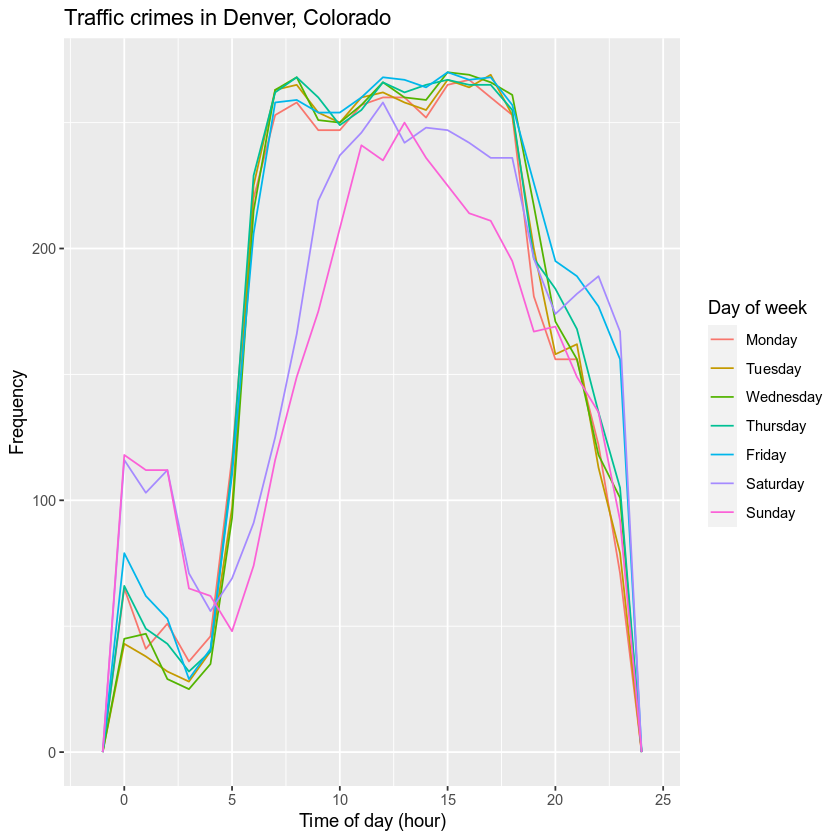
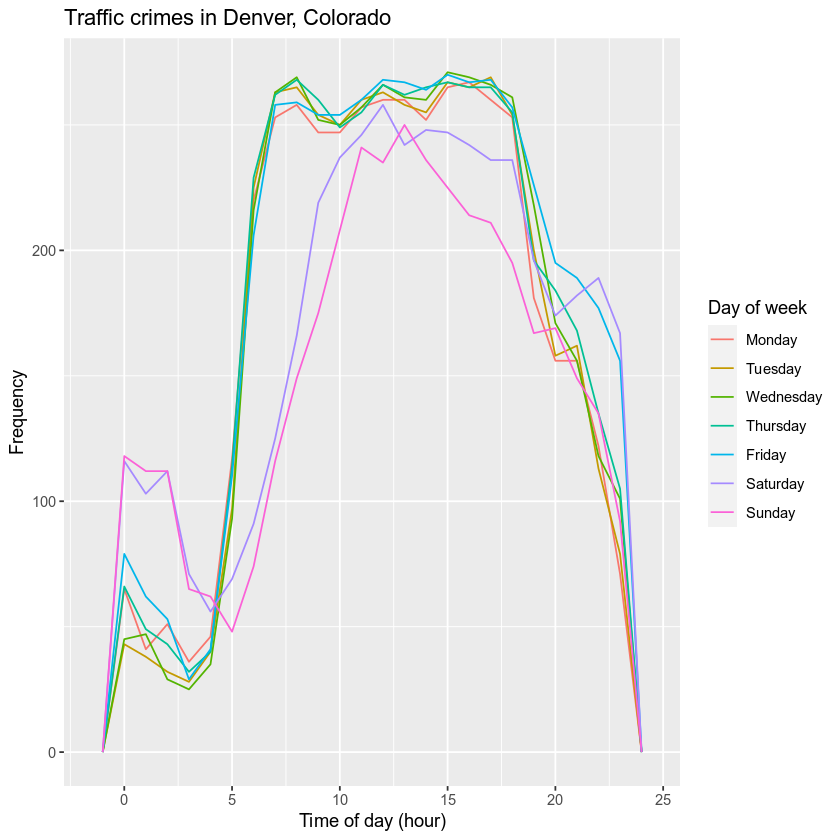
rebuild tutorials

diff --git a/_posts/tutorials/python/2016-08-01-introduction-to-leaflet-animated-maps.md b/_posts/tutorials/python/2016-08-01-introduction-to-leaflet-animated-maps.md
@@ -2,7 +2,7 @@
 layout: single
 title: 'Using Leaflet and Folium to make interactive maps in Python'
 date: 2016-08-01
-modified: 2020-04-02
+modified: 2020-04-08
 authors: [Matt Oakley]
 category: [tutorials]
 excerpt: 'This tutorial shows how to make interactive maps in Python with folium.'
@@ -58,7 +58,7 @@ my_map
 
 
 
[2 lines of base64/hex data omitted]
 
 
 
@@ -89,7 +89,7 @@ my_map
 
 
 
[2 lines of base64/hex data omitted]
 
 
 
@@ -111,7 +111,7 @@ map_with_tiles
 
 
 
[2 lines of base64/hex data omitted]
 
 
 
@@ -143,7 +143,7 @@ polygon_map
 
 
 
[2 lines of base64/hex data omitted]
 
 
 

diff --git a/_posts/tutorials/python/2016-07-15-extract-raster-around-buffered-points.md b/_posts/tutorials/python/2016-07-15-extract-raster-around-buffered-points.md
@@ -2,7 +2,7 @@
 layout: single
 title: 'Computing raster statistics around buffered spatial points Python'
 date: 2016-07-15
-modified: 2020-04-02
+modified: 2020-04-08
 authors: [Matt Oakley, Max Joseph]
 category: [tutorials]
 excerpt: 'This tutorial shows how to compute raster statistics like the mean and variance around buffered spatial points in Python.'
@@ -74,11 +74,11 @@ Our first objective is to read in the data that we want to use. We'll be working
     gdalbuildvrt -q -overwrite SRTM1.vrt cache/N41/N41W123.tif cache/N41/N41W122.tif
     make: Leaving directory '/root/.cache/elevation/SRTM1'
     make: Entering directory '/root/.cache/elevation/SRTM1'
-    cp SRTM1.vrt SRTM1.6a0602e4801d423a8a1a8e310a12dadd.vrt
+    cp SRTM1.vrt SRTM1.ce74d7f7a9fa408b84ed7f5c0e08fb71.vrt
     make: Leaving directory '/root/.cache/elevation/SRTM1'
     make: Entering directory '/root/.cache/elevation/SRTM1'
-    gdal_translate -q -co TILED=YES -co COMPRESS=DEFLATE -co ZLEVEL=9 -co PREDICTOR=2 -projwin -122.6 41.6 -121.9 41.15 SRTM1.6a0602e4801d423a8a1a8e310a12dadd.vrt /root/earth-analytics-lessons/Shasta-30m-DEM.tif
-    rm -f SRTM1.6a0602e4801d423a8a1a8e310a12dadd.vrt
+    gdal_translate -q -co TILED=YES -co COMPRESS=DEFLATE -co ZLEVEL=9 -co PREDICTOR=2 -projwin -122.6 41.6 -121.9 41.15 SRTM1.ce74d7f7a9fa408b84ed7f5c0e08fb71.vrt /root/earth-analytics-lessons/Shasta-30m-DEM.tif
+    rm -f SRTM1.ce74d7f7a9fa408b84ed7f5c0e08fb71.vrt
     make: Leaving directory '/root/.cache/elevation/SRTM1'
 
 
@@ -144,7 +144,7 @@ print(prj)
 ```
 
 {:.output}
-    
+    GEOGCS["WGS 84",DATUM["WGS_1984",SPHEROID["WGS 84",6378137,298.257223563,AUTHORITY["EPSG","7030"]],AUTHORITY["EPSG","6326"]],PRIMEM["Greenwich",0],UNIT["degree",0.0174532925199433,AUTHORITY["EPSG","9122"]],AXIS["Latitude",NORTH],AXIS["Longitude",EAST],AUTHORITY["EPSG","4326"]]
 
 
 

diff --git a/_posts/tutorials/python/2016-07-26-visualize-digital-elevation-model-contours-matplotlib.md b/_posts/tutorials/python/2016-07-26-visualize-digital-elevation-model-contours-matplotlib.md
@@ -2,7 +2,7 @@
 layout: single
 title: 'Visualizing elevation contours from raster digital elevation models in Python'
 date: 2016-07-26
-modified: 2020-04-02
+modified: 2020-04-08
 authors: [Matt Oakley, Max Joseph]
 category: [tutorials]
 excerpt: 'This tutorial shows how to compute and plot contour lines for elevation from a raster DEM (digital elevation model).'
@@ -55,11 +55,11 @@ The first objective we'll have to accomplish is acquiring and reading in our dat
     make: Nothing to be done for 'all'.
     make: Leaving directory '/root/.cache/elevation/SRTM1'
     make: Entering directory '/root/.cache/elevation/SRTM1'
-    cp SRTM1.vrt SRTM1.c20c62cb65d749d9b77735837c49091b.vrt
+    cp SRTM1.vrt SRTM1.6a6a4da0cb804d8d93968ec60cad8854.vrt
     make: Leaving directory '/root/.cache/elevation/SRTM1'
     make: Entering directory '/root/.cache/elevation/SRTM1'
-    gdal_translate -q -co TILED=YES -co COMPRESS=DEFLATE -co ZLEVEL=9 -co PREDICTOR=2 -projwin -122.6 41.6 -121.9 41.15 SRTM1.c20c62cb65d749d9b77735837c49091b.vrt /root/earth-analytics-lessons/Shasta-30m-DEM.tif
-    rm -f SRTM1.c20c62cb65d749d9b77735837c49091b.vrt
+    gdal_translate -q -co TILED=YES -co COMPRESS=DEFLATE -co ZLEVEL=9 -co PREDICTOR=2 -projwin -122.6 41.6 -121.9 41.15 SRTM1.6a6a4da0cb804d8d93968ec60cad8854.vrt /root/earth-analytics-lessons/Shasta-30m-DEM.tif
+    rm -f SRTM1.6a6a4da0cb804d8d93968ec60cad8854.vrt
     make: Leaving directory '/root/.cache/elevation/SRTM1'
 
 

diff --git a/_posts/tutorials/python/2016-08-04-convert-modis-tile-to-lat-lon.md b/_posts/tutorials/python/2016-08-04-convert-modis-tile-to-lat-lon.md
@@ -2,7 +2,7 @@
 layout: single
 title: 'Get Modis sinusoidal tile grid positions from latitude and longitude coordinates in Python'
 date: 2016-08-04
-modified: 2020-04-02
+modified: 2020-04-08
 authors: [Zach Schira]
 category: [tutorials]
 excerpt: 'This tutorial demonstrates how to convert Modis sinusoidal tile grid positions to latitude and longitude in Python.'
@@ -43,16 +43,16 @@ MODIS provides a text file containing the range of latitude and longitude coordi
 ```
 
 {:.output}
-    --2020-04-02 17:27:11--  https://modis-land.gsfc.nasa.gov/pdf/sn_bound_10deg.txt
+    --2020-04-08 17:57:27--  https://modis-land.gsfc.nasa.gov/pdf/sn_bound_10deg.txt
     Resolving modis-land.gsfc.nasa.gov (modis-land.gsfc.nasa.gov)... 129.164.179.244, 2001:4d0:2310:150::244
     Connecting to modis-land.gsfc.nasa.gov (modis-land.gsfc.nasa.gov)|129.164.179.244|:443... connected.
     HTTP request sent, awaiting response... 200 OK
     Length: 32585 (32K) [text/plain]
     Saving to: ‘sn_bound_10deg.txt’
     
-    sn_bound_10deg.txt  100%[===================>]  31.82K  --.-KB/s    in 0.04s   
+    sn_bound_10deg.txt  100%[===================>]  31.82K  --.-KB/s    in 0.03s   
     
-    2020-04-02 17:27:11 (801 KB/s) - ‘sn_bound_10deg.txt’ saved [32585/32585]
+    2020-04-08 17:57:27 (1004 KB/s) - ‘sn_bound_10deg.txt’ saved [32585/32585]
     
 
 

diff --git a/_posts/tutorials/documentation/2016-10-01-basic-polygon-operations-google-earth-engine.md b/_posts/tutorials/documentation/2016-10-01-basic-polygon-operations-google-earth-engine.md
@@ -2,7 +2,7 @@
 layout: single 
 title: "Visualizing hourly traffic crime data for Denver, Colorado using R, dplyr, and ggplot"
 date: 2016-12-06 
-modified: '2020-04-02'
+modified: '2020-04-08'
 authors: [Max Joseph] 
 category: [tutorials] 
 excerpt: 'This tutorial demonstrates how to access and visualize crime data for Denver, Colorado.' 
@@ -43,7 +43,7 @@ Let's lowercase the column names, and look at the structure of the data with the
 ```r
 names(d) <- tolower(names(d))
 str(d)
-## 'data.frame':	477029 obs. of  19 variables:
+## 'data.frame':	477213 obs. of  19 variables:
 ##  $ incident_id           : num  2.02e+09 2.02e+09 2.02e+10 2.02e+10 2.02e+09 ...
 ##  $ offense_id            : num  2.02e+15 2.02e+15 2.02e+16 2.02e+16 2.02e+15 ...
 ##  $ offense_code          : int  2399 5441 2399 2308 5016 1316 5499 5499 7399 1102 ...

diff --git a/_posts/tutorials/documentation/2016-09-01-intro-google-earth-engine-ide.md b/_posts/tutorials/documentation/2016-09-01-intro-google-earth-engine-ide.md
@@ -2,7 +2,7 @@
 layout: single
 title: 'Calculating the area of polygons in Google Earth Engine'
 date: 2016-10-01
-modified: '2020-04-02'
+modified: '2020-04-08'
 authors: [Matt Oakley]
 category: [tutorials]
 excerpt: 'This tutorial demonstrates polygon creation, perimeter and area calculations, and visualization using the JavaScript interface to Google Earth Engine.'

diff --git a/_posts/tutorials/R/2016-07-07-visualize-2d-point-density-ggmap.md b/_posts/tutorials/R/2016-07-07-visualize-2d-point-density-ggmap.md
@@ -2,7 +2,7 @@
 layout: single
 title: 'Introduction to the Google Earth Engine code editor'
 date: 2016-09-01
-modified: '2020-04-02'
+modified: '2020-04-08'
 authors: [Matt Oakley]
 category: [tutorials]
 excerpt: 'This tutorial introduces the code editor in Google Earth Engine and shows how to use LandSat imagery using the JavaScript API.'

diff --git a/_posts/tutorials/documentation/2016-09-01-intro-google-earth-engine-python-api.md b/_posts/tutorials/documentation/2016-09-01-intro-google-earth-engine-python-api.md
@@ -2,7 +2,7 @@
 layout: single 
 title: 'Computing and plotting 2d spatial point density in R' 
 date: 2016-07-07 
-modified: '2020-04-02'
+modified: '2020-04-08'
 authors: [Max Joseph] 
 category: [tutorials] 
 excerpt: 'This tutorial demonstrates how to compute 2d spatial density and visualize the result using storm event data from NOAA.' 

diff --git a/_posts/tutorials/python/2016-08-04-convert-landsat-path-row-to-lat-lon.md b/_posts/tutorials/python/2016-08-04-convert-landsat-path-row-to-lat-lon.md
@@ -2,7 +2,7 @@
 layout: single
 title: 'Convert lat/lon coordinates to Landsat 8 path/row in Python'
 date: 2016-08-04
-modified: 2020-04-02
+modified: 2020-04-08
 authors: [Zach Schira]
 category: [tutorials]
 excerpt: 'This tutorial demonstrates how to convert Landsat 8 path/row coordinates to latitude and longitude in Python.'

diff --git a/_posts/tutorials/python/2016-07-08-acquire-and-visualize-usgs-hydrology-data.md b/_posts/tutorials/python/2016-07-08-acquire-and-visualize-usgs-hydrology-data.md
@@ -2,7 +2,7 @@
 layout: single
 title: 'Acquiring streamflow data from USGS with climata and Python'
 date: 2016-07-08
-modified: 2020-04-02
+modified: 2020-04-08
 authors: [Max Joseph]
 category: [tutorials]
 excerpt: 'This tutorial demonstrates how to use climata to acquire streamflow data in and around Boulder, Colorado.'

diff --git a/_posts/tutorials/python/2016-06-28-create-raster-from-smap-soil-moisture-data.md b/_posts/tutorials/python/2016-06-28-create-raster-from-smap-soil-moisture-data.md
@@ -2,7 +2,7 @@
 layout: single
 title: 'Create rasters from SMAP data in Python'
 date: 2016-06-28
-modified: 2020-04-02
+modified: 2020-04-08
 authors: [Matt Oakley, Zach Schira]
 category: [tutorials]
 excerpt: 'This tutorial demonstrates how to access SMAP data, and how to generate raster output from this data.'

diff --git a/_posts/tutorials/R/2016-12-06-visualize-denver-colorado-traffic-crime.md b/_posts/tutorials/R/2016-12-06-visualize-denver-colorado-traffic-crime.md
@@ -2,7 +2,7 @@
 layout: single
 title: 'Introduction to the Google Earth Engine Python API'
 date: 2016-09-01
-modified: '2020-04-02'
+modified: '2020-04-08'
 authors: [Matt Oakley]
 category: [tutorials]
 excerpt: 'This tutorial outlines the process of installing the Google Earth Engine Python API client.'
